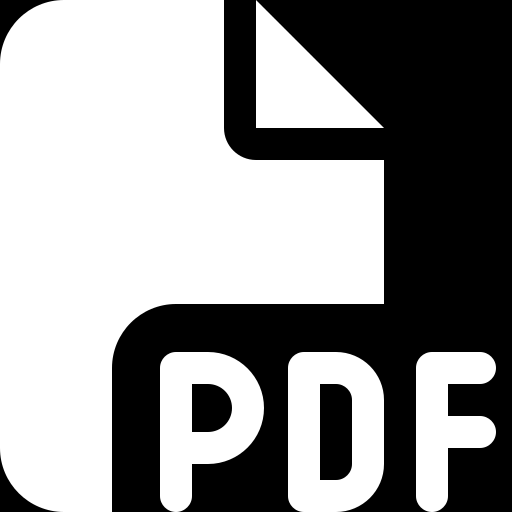
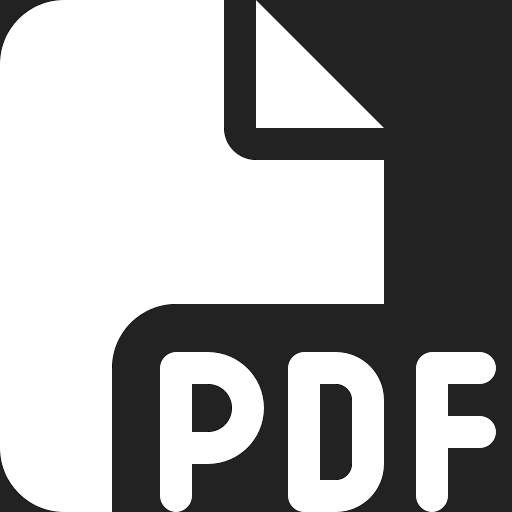
Mises à jour mineures : - Adaptation de la taille du tableau de suivi d'une leçon à la taille de l'écran par défaut (#29) - Remplissage de la couleur noire correcte du fichier image pdf.png, en lien avec l'encadré de la dernière diapositive

diff --git a/index.html b/index.html
@@ -49,7 +49,7 @@
 			}
 
 			.table-container {
-			max-height: 75vh;        /* augmente un peu la hauteur visible pour voir la dernière ligne */
+			max-height: 75vh;       
 			max-width: 90vw;
 			margin: 0 auto;
 			overflow-y: auto;
@@ -57,7 +57,7 @@
 			border: 1px solid #ccc;
 			border-radius: 4px;
 			font-family: Calibri, sans-serif;
-			font-size: 0.75em;      
+			font-size: 0.55em;      
 			}
 
 			table {
@@ -458,7 +458,7 @@
 
 						<!-- Diapositive 29 -->
 
-						<p style="text-align: center;">Processus éditorial accessible sur GitHub <a href="https://github.com/programminghistorian/ph-submissions"><img src="images/github.png" height="40" style="vertical-align: middle;"></a></p>
+						<p style="text-align:center;">Processus éditorial accessible sur GitHub <a href="https://github.com/programminghistorian/ph-submissions"><img src="images/github.png" height="40" style="vertical-align: middle;"></a></p>
 
 						<div class="table-container">
 						<table>
@@ -484,7 +484,7 @@
 						</div>
 
 						<aside class="notes">
-						- Utilisation de l'écriture inclusive selon les principes arrêtés par l’Office québécois de la langue française (cf. B. <a href="https://programminghistorian.org/fr/consignes-auteurs">Règles typographiques</a> et <a href="https://programminghistorian.org/posts/bienvenue-ph-fr"><em>Lancement de Programming Historian en français</em>></a>
+						- Utilisation de l'écriture inclusive selon les principes arrêtés par l’Office québécois de la langue française (cf. B. <a href="https://programminghistorian.org/fr/consignes-auteurs">Règles typographiques</a> et <a href="https://programminghistorian.org/posts/bienvenue-ph-fr"><em>Lancement de Programming Historian en français</em></a>
 						</aside>	
 						---
 
